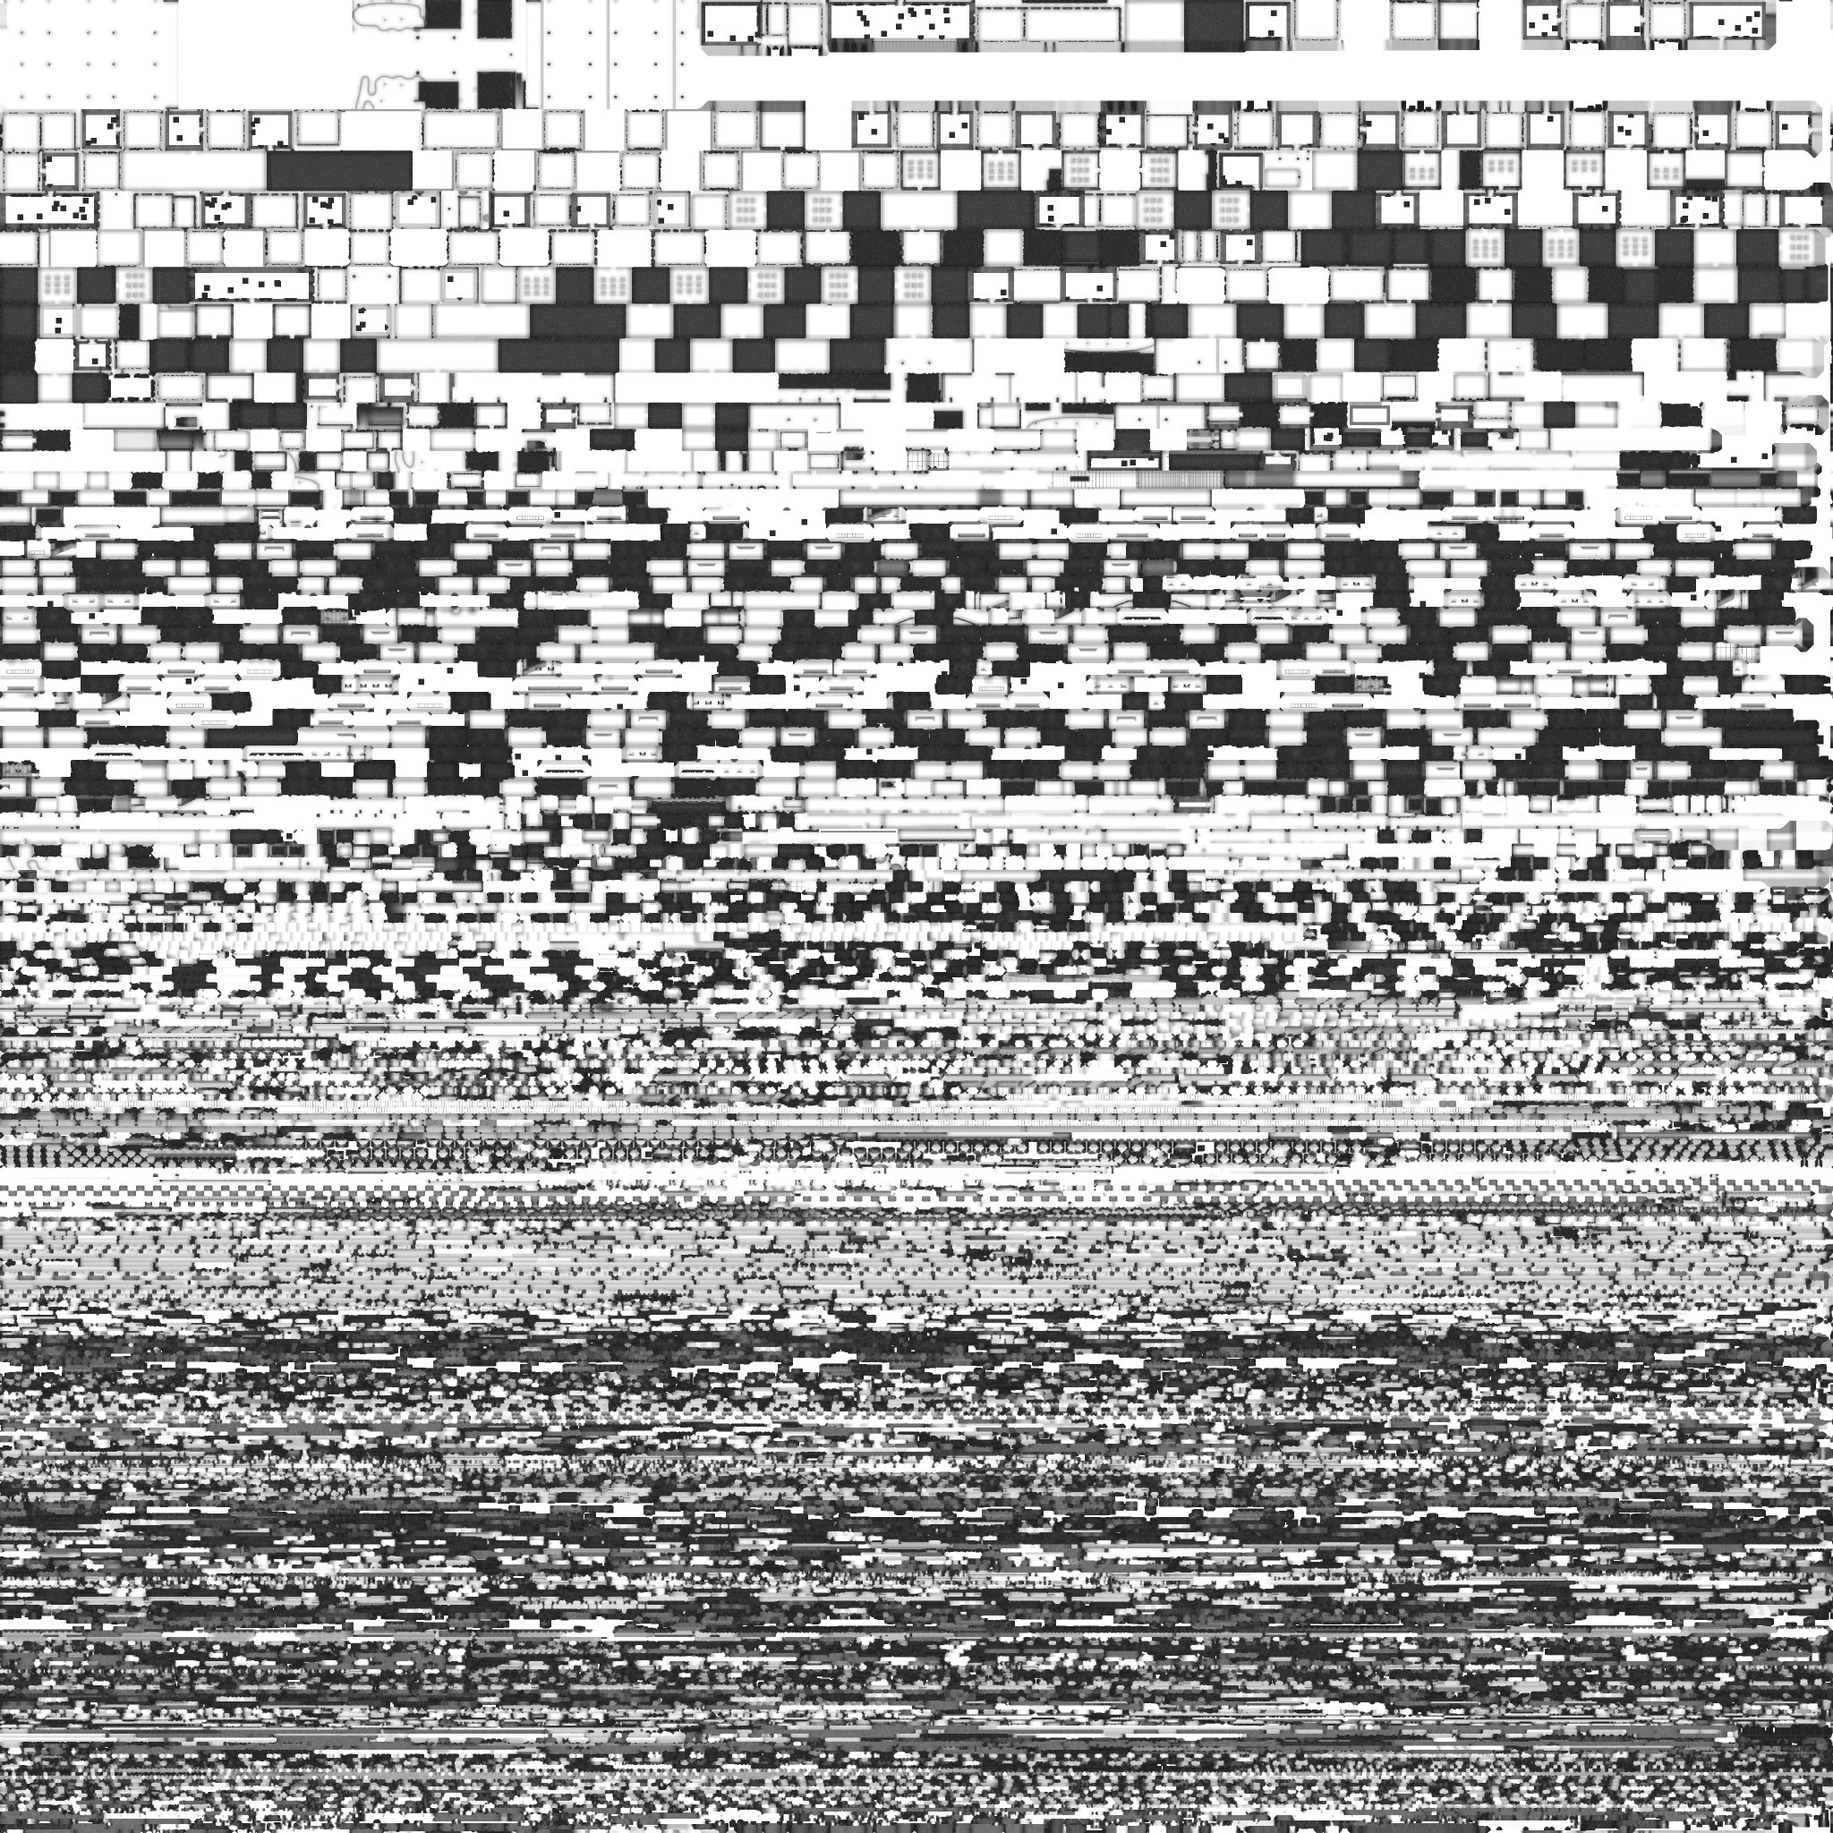
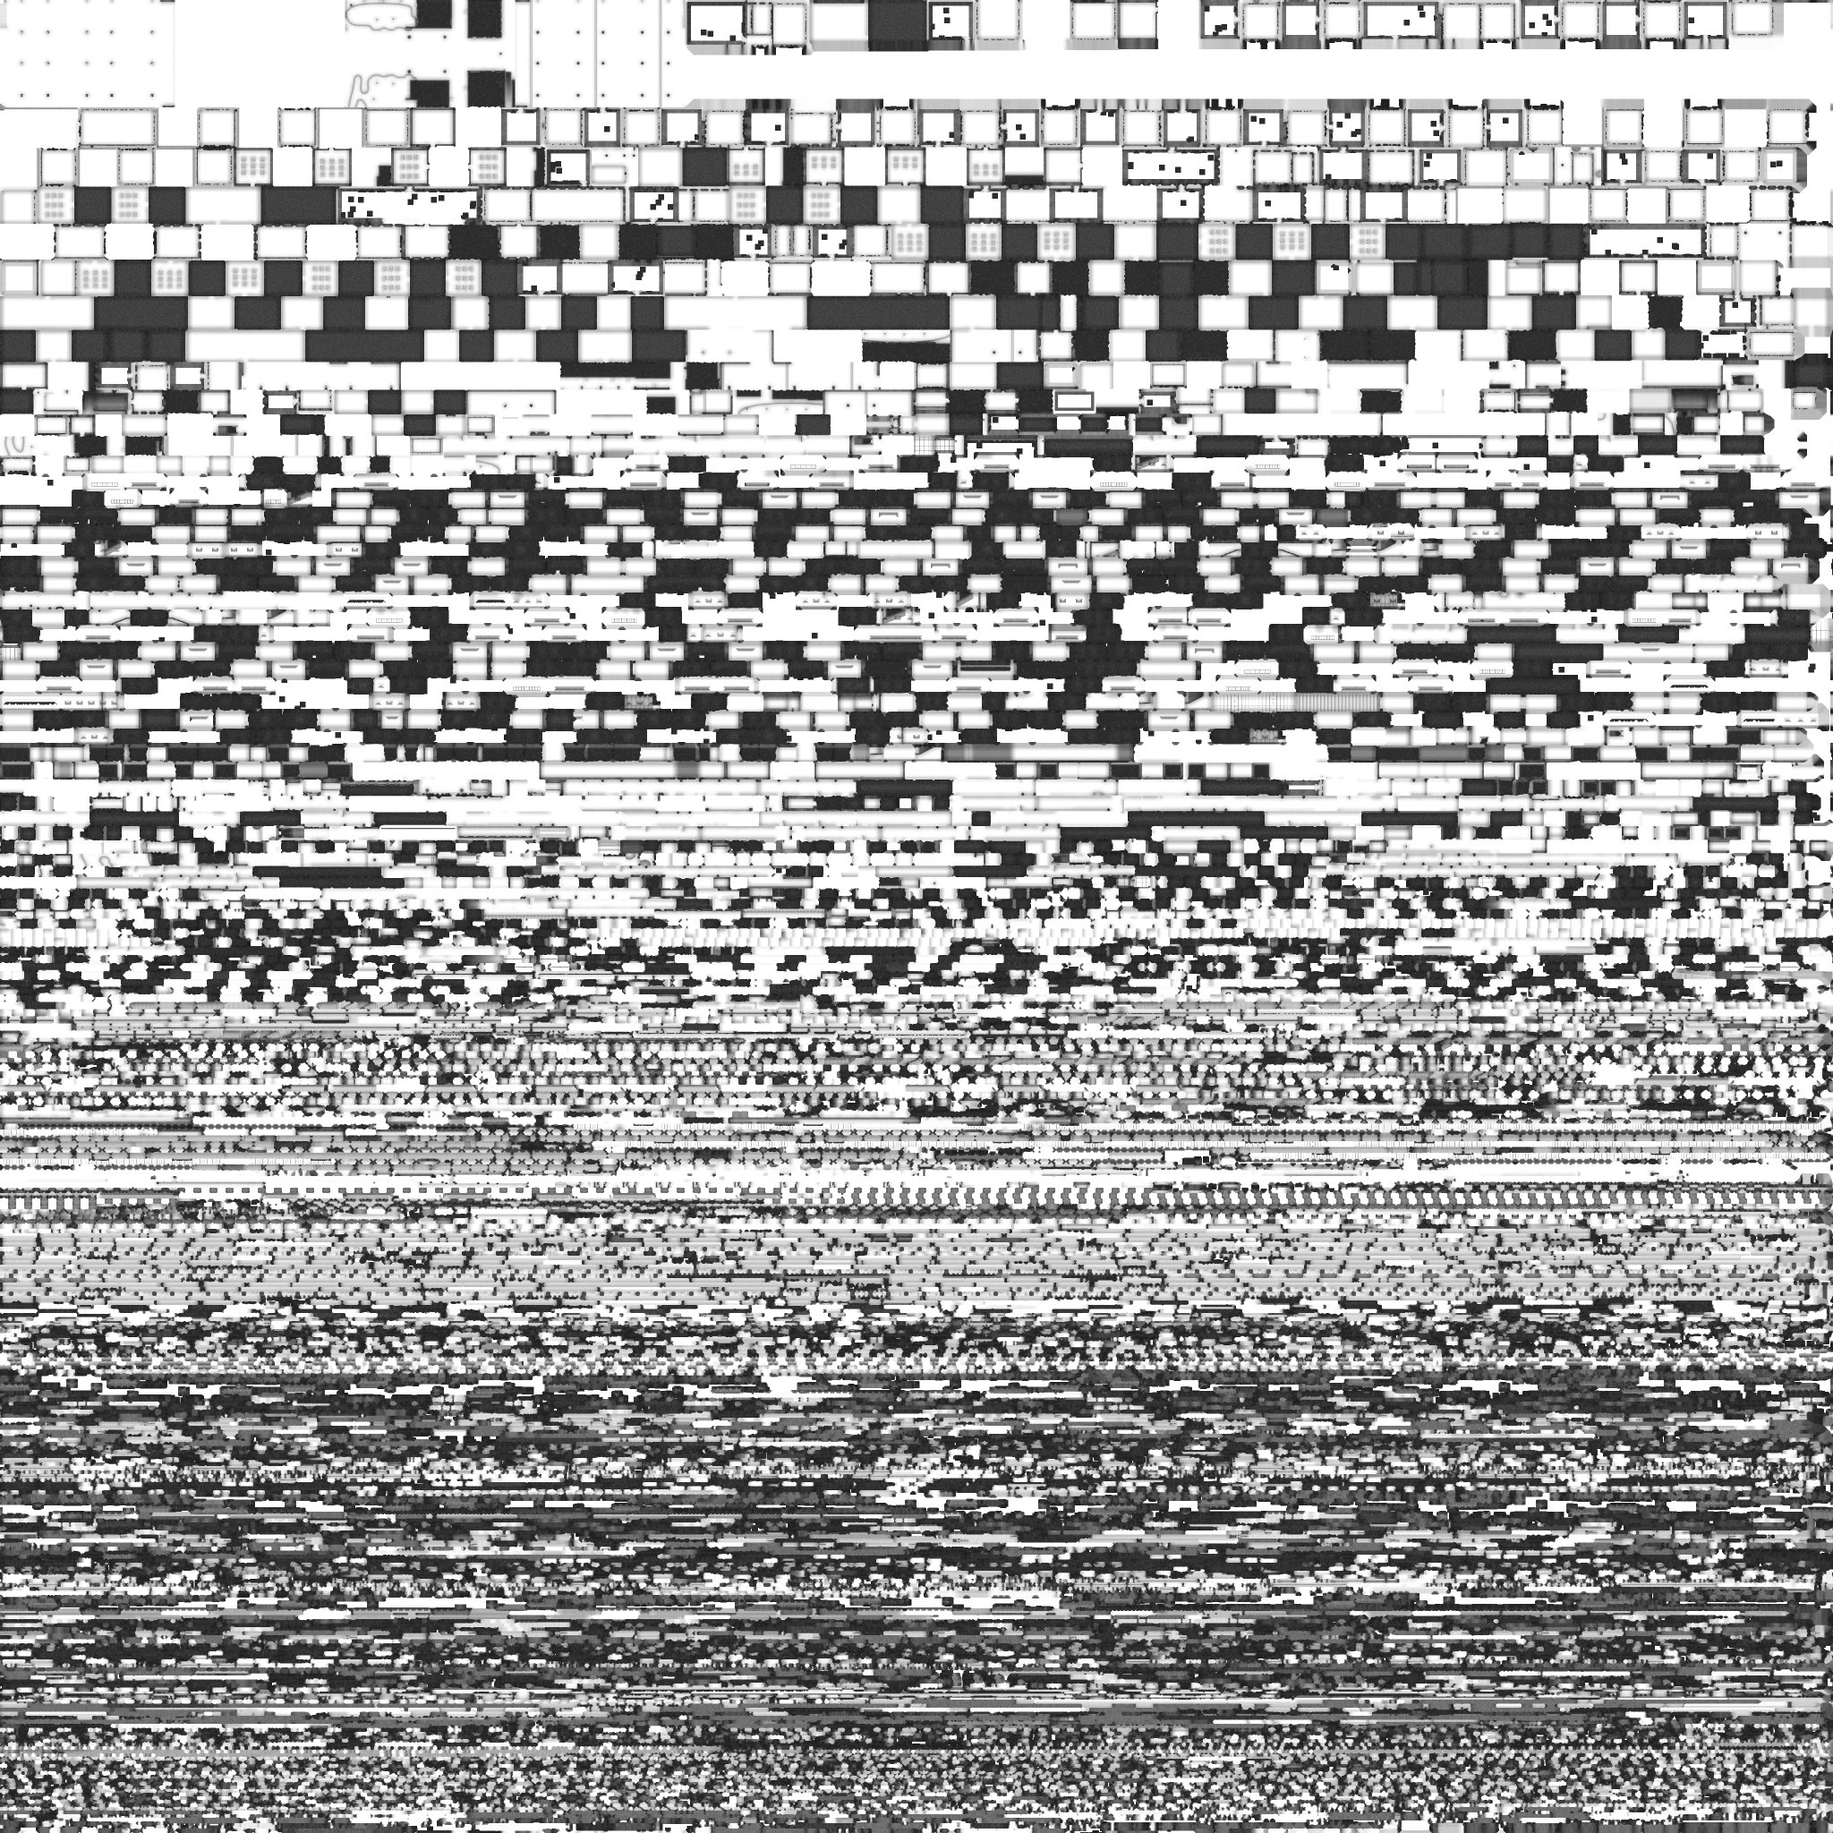
perf(round3): F 收尾（門牌圖集、純色材質頂點色合併、noShadow → draw calls 低於第二輪；AO 重烘 d1a97412；README 證據分級）

diff --git a/campus-atlas/slice/src/dongxin/scene.js b/campus-atlas/slice/src/dongxin/scene.js
@@ -18,9 +18,10 @@ export function buildDongxinScene(m, MS, opts = {}) {
     const t = new T.CanvasTexture(c); t.anisotropy = 4; if (repeat) t.wrapS = t.wrapT = T.RepeatWrapping; return t; };
   const roundRect = (g, x, y, w, h, r) => { g.beginPath(); g.moveTo(x + r, y); g.arcTo(x + w, y, x + w, y + h, r); g.arcTo(x + w, y + h, x, y + h, r); g.arcTo(x, y + h, x, y, r); g.arcTo(x, y, x + w, y, r); g.closePath(); };
   const fit = (g, txt, maxW, size, weight) => { let s = size; g.font = weight + ' ' + s + 'px ' + FONT; while (g.measureText(txt).width > maxW && s > 12) { s -= 2; g.font = weight + ' ' + s + 'px ' + FONT; } return s; };
-  const signTex = (name, color) => canvasTex(256, 96, (g, w, h) => {
+  // 門牌：畫在 (ox, oy) 起的 w×h 格（第三輪 F：所有門牌畫進同一張圖集，見 flushSigns）
+  const drawSign = (g, ox, oy, w, h, name, color) => { g.save(); g.translate(ox, oy);
     g.fillStyle = color; roundRect(g, 2, 2, w - 4, h - 4, 16); g.fill(); g.strokeStyle = 'rgba(255,255,255,.6)'; g.lineWidth = 3; roundRect(g, 8, 8, w - 16, h - 16, 11); g.stroke();
-    g.fillStyle = '#fff'; g.textAlign = 'center'; g.textBaseline = 'middle'; fit(g, name, w - 36, 52, '700'); g.fillText(name, w / 2, h / 2 + 2); });
+    g.fillStyle = '#fff'; g.textAlign = 'center'; g.textBaseline = 'middle'; fit(g, name, w - 36, 52, '700'); g.fillText(name, w / 2, h / 2 + 2); g.restore(); };
 
   // 場景角色 → 材質：全部來自材質 JSON 的 roles（換校＝換 JSON）。facade.* / roof.* 為各棟立面與屋頂。
   const M = Object.assign({}, MS.roles), R = (k) => MS.role(k);
@@ -196,15 +197,27 @@ function corridorFace(ib,sd,r,door,y0,wh){
     if(ax==='x') ib.add(M.wood,0.05,DOOR_H-0.06,lw,g0+0.06,Y((DOOR_H-0.06)/2),fix+nz*(lw/2+0.1));
     else ib.add(M.wood,lw,DOOR_H-0.06,0.05,fix+nx*(lw/2+0.1),Y((DOOR_H-0.06)/2),g0+0.06); }
 }
+// 門牌（第三輪 F：draw call 收斂）：原本每塊門牌 2 個網格＋各自一張貼圖（約 190 個 draw call）；改為先收集，
+// flushSigns 把所有門牌畫進同一張圖集（每格 256×96，格間留 8 px 防 mipmap 滲色），每個樓層群組合併成 1 個網格（鳥瞰剖層照樣跟著樓層顯示／隱藏）
+const SIGNS=new Map();   // 群組 → [{text,col,pos:[[x,y,z,ry],...]}]
 function doorSign(g,r,door,y0,text,col){
-  const tex=signTex(text,col); tex.shared=false;
-  const mat=new T.MeshBasicMaterial({map:tex,side:T.FrontSide});
   const rot={N:Math.PI,S:0,E:Math.PI/2,W:-Math.PI/2}[door.side];
-  const nx=door.nx,nz=door.nz, off=SLAB/2+0.03;
-  [1,-1].forEach(dir=>{
-    const m=new T.Mesh(new T.PlaneGeometry(1.7,0.64),mat); m.position.set(door.x+nx*off*dir,y0+DOOR_H+0.62,door.z+nz*off*dir);
-    m.rotation.y=rot+(dir<0?Math.PI:0); g.add(m);
-  });
+  const nx=door.nx,nz=door.nz, off=SLAB/2+0.03, pos=[1,-1].map(dir=>[door.x+nx*off*dir,y0+DOOR_H+0.62,door.z+nz*off*dir,rot+(dir<0?Math.PI:0)]);
+  if(!SIGNS.has(g)) SIGNS.set(g,[]); SIGNS.get(g).push({text,col,pos});
+}
+function flushSigns(){
+  const all=[...SIGNS.values()].flat(); if(!all.length) return;
+  const CW=256, CH=96, GUT=8, cols=Math.floor(2048/(CW+GUT)), rows=Math.ceil(all.length/cols), W=cols*(CW+GUT), H=rows*(CH+GUT);
+  let k=0; const cell=new Map();
+  const tex=canvasTex(W,H,(g)=>{ g.clearRect(0,0,W,H); for(const s of all){ const cx=(k%cols)*(CW+GUT)+GUT/2, cy=Math.floor(k/cols)*(CH+GUT)+GUT/2; drawSign(g,cx,cy,CW,CH,s.text,s.col); cell.set(s,[cx,cy]); k++; } });
+  tex.shared=false; const mat=new T.MeshBasicMaterial({map:tex,side:T.FrontSide}); mat.name='doorSigns';
+  const mm=new T.Matrix4(), q=new T.Quaternion(), ax=new T.Vector3(0,1,0), one=new T.Vector3(1,1,1), p=new T.Vector3();
+  SIGNS.forEach((list,g)=>{ const parts=[];
+    for(const s of list){ const [cx,cy]=cell.get(s), u0=cx/W, u1=(cx+CW)/W, v1=1-cy/H, v0=1-(cy+CH)/H;
+      for(const [x,y,z,ry] of s.pos){ const pg=new T.PlaneGeometry(1.7,0.64), uv=pg.attributes.uv;
+        for(let i=0;i<uv.count;i++) uv.setXY(i,u0+uv.getX(i)*(u1-u0),v0+uv.getY(i)*(v1-v0));
+        q.setFromAxisAngle(ax,ry); p.set(x,y,z); pg.applyMatrix4(mm.compose(p,q,one)); parts.push(pg); } }
+    const mesh=new T.Mesh(BGU.mergeGeometries(parts),mat); mesh.name='doorSigns_'+g.name; g.add(mesh); });
 }
 const TWR = m.TOWER ? m.TOWER.s : null;   // 時鐘梯塔（最靠近校門的梯間）
 // 3F→4F 轉折平台後方：米白粉刷牆＋木紋門（機房／儲藏）＋灰色消防栓箱（照片 tower_landing_3to4.jpg）
@@ -739,6 +752,6 @@ function buildSigns(){
 }
   m.ROOMS.forEach(r=>{ if(['潛能教室','電腦教室','音樂教室'].includes(r.name)) r.ribbon=true; });
   const FIB = FG.map(g => IB(g));   // 各樓層共用的方塊批次（buildFloors、buildChuantang 都加進來，最後一次合併）
-  buildGround(); buildFloors(); buildChuantang(); buildStage(); buildFinBox(); buildSlide(); buildTower(); buildGuard(); buildPlanters(); buildGarage(); FIB.forEach(b => b.flush()); buildFence(); buildDecor(); buildTrees(); buildTreeSupports(); buildRamp(); buildSigns(); flushProps();
+  buildGround(); buildFloors(); buildChuantang(); buildStage(); buildFinBox(); buildSlide(); buildTower(); buildGuard(); buildPlanters(); buildGarage(); FIB.forEach(b => b.flush()); buildFence(); buildDecor(); buildTrees(); buildTreeSupports(); buildRamp(); buildSigns(); flushProps(); flushSigns();
   return { root, FG, CAN, UNDER, PILLARS, WINDOWS, FINBOX, PLANTERS: PLANTERS.planters.length, get groundMesh() { return groundMesh; }, get groundBox() { return groundBox; }, GATE, ACC, GB };
 }

diff --git a/campus-atlas/slice/src/scene/batch.js b/campus-atlas/slice/src/scene/batch.js
@@ -1,6 +1,12 @@
 import * as THREE from 'three';
 // 軸對齊方塊批次合併：同材質的所有方塊合成一個 Mesh，降低 draw call。
 // UV 以世界公尺換算（u,v = 座標 / tile），所以磚縫、板縫跨方塊也連續。
+const BASE_OBC = THREE.Material.prototype.onBeforeCompile;
+const isSolid = (m) => m.isMeshLambertMaterial && !m.map && !m.transparent && !m.alphaTest && !m.vertexColors && !m.polygonOffset && m.side === THREE.FrontSide
+  && m.opacity === 1 && m.onBeforeCompile === BASE_OBC && !m.userData.keepSeparate;
+const SOLID = {};
+function solidMat(noShadow) { const k = noShadow ? 'ns' : 'c'; if (!SOLID[k]) { SOLID[k] = new THREE.MeshLambertMaterial({ vertexColors: true }); SOLID[k].name = noShadow ? 'solidVC_noShadow' : 'solidVC';
+  if (noShadow) SOLID[k].userData.noShadow = true; } return SOLID[k]; }
 export class Batch {
   constructor() { this.m = new Map(); }
   _g(mat) { let g = this.m.get(mat); if (!g) { g = { p: [], n: [], u: [], i: [] }; this.m.set(mat, g); } return g; }
@@ -27,11 +33,20 @@ export class Batch {
     put([a, b, c, d], n); if (twoSided) put([a, d, c, b], n.map(v => -v));
   }
   flush(parent, name) {
+    // 第三輪 F（draw call 收斂）：同一批次裡「純色、不透明、沒有自訂 shader」的 Lambert 材質（窗框灰、綠欄杆、屋頂、飾帶、課桌椅…）
+    // 合併成一個頂點色網格（共用 SOLID 材質，顏色寫進頂點）；投影與不投影（userData.noShadow）各一個。外觀不變，每個群組省下 N−1 個 draw call。
+    const solid = [new Map(), new Map()];
+    for (const [mat, g] of [...this.m]) if (isSolid(mat)) { solid[mat.userData.noShadow ? 1 : 0].set(mat, g); this.m.delete(mat); }
+    solid.forEach((bucket, ns) => { if (!bucket.size) return; const G = { p: [], n: [], u: [], i: [], c: [] };
+      for (const [mat, g] of bucket) { const base = G.p.length / 3, nv = g.p.length / 3, c = mat.color;
+        G.p.push(...g.p); G.n.push(...g.n); G.u.push(...g.u); for (const k of g.i) G.i.push(k + base); for (let v = 0; v < nv; v++) G.c.push(c.r, c.g, c.b); }
+      this.m.set(solidMat(ns === 1), G); });
     for (const [mat, g] of this.m) {
       const geo = new THREE.BufferGeometry();
       geo.setAttribute('position', new THREE.Float32BufferAttribute(g.p, 3));
       geo.setAttribute('normal', new THREE.Float32BufferAttribute(g.n, 3));
       geo.setAttribute('uv', new THREE.Float32BufferAttribute(g.u, 2));
+      if (g.c) geo.setAttribute('color', new THREE.Float32BufferAttribute(g.c, 3));
       geo.setIndex(g.i);
       const mesh = new THREE.Mesh(geo, mat); mesh.name = name || ''; mesh.frustumCulled = false; mesh.userData.batch = true;   // 每個面 4 個獨立頂點的軸對齊矩形（lightmap.js 依此配 uv1）
       if (mat.transparent) mesh.renderOrder = 2;

diff --git a/campus-atlas/slice/src/materials/library.js b/campus-atlas/slice/src/materials/library.js
@@ -1,7 +1,7 @@
 // 材質庫：由材質 JSON（data/materials.*.json）建出 three 材質。換校＝換一份 JSON（換膜），程式不用改。
 //   textures  依序產生（共用亂數序列 → 同一份 JSON 永遠產生相同紋理；個別紋理可給 seed 用自己的序列）
 //             加上 "image" 區塊即為圖片型紋理：先用程式化版本（gen/p）當備援立即顯示，圖片載入後換上；載入失敗就一直用備援，不會白屏。
-//   materials 物理材質（紅磚、清水混凝土、鋁框、玻璃、地磚…）：map 指向紋理，或 color；unlit 用 MeshBasic
+//   materials 物理材質（紅磚、清水混凝土、鋁框、玻璃、地磚…）：map 指向紋理，或 color；unlit 用 MeshBasic；noShadow：只受影、不投影
 //   roles     場景角色 → 材質 id（外牆、樓板、欄杆、各棟立面、各棟屋頂…），場景程式只認角色
 //   accents   房間類型色帶
 //
@@ -89,7 +89,7 @@ export function buildMaterials(spec, { resolve = (s) => s } = {}) {
   for (const [id, d] of Object.entries(spec.materials)) {
     const o = {}; if (d.map) o.map = TEX[d.map]; if (d.color) o.color = new THREE.Color(d.color);
     if (d.transparent) { o.transparent = true; o.opacity = d.opacity ?? 1; } if (d.depthWrite === false) o.depthWrite = false;
-    M[id] = d.unlit ? new THREE.MeshBasicMaterial(o) : new THREE.MeshLambertMaterial(o); M[id].name = id; M[id].userData.label = d.label || id;
+    M[id] = d.unlit ? new THREE.MeshBasicMaterial(o) : new THREE.MeshLambertMaterial(o); M[id].name = id; M[id].userData.label = d.label || id; if (d.noShadow) M[id].userData.noShadow = true;
   }
   const roles = {}; for (const [r, id] of Object.entries(spec.roles || {})) roles[r] = M[id];
   const acc = {}; for (const [k, c] of Object.entries(spec.accents || {})) acc[k] = new THREE.MeshLambertMaterial({ color: new THREE.Color(c) });

diff --git a/campus-atlas/slice/src/dongxin/app/lighting.js b/campus-atlas/slice/src/dongxin/app/lighting.js
@@ -29,10 +29,11 @@ export function createLighting(renderer, scene, override, { shadows = true } = {
   const catcher = new THREE.Mesh(new THREE.PlaneGeometry(400, 400), new THREE.ShadowMaterial({ opacity: S.groundOpacity, depthWrite: false }));
   catcher.rotation.x = -Math.PI / 2; catcher.position.y = 0.02; catcher.receiveShadow = true; catcher.renderOrder = 1; catcher.visible = on; scene.add(catcher);
 
-  // 哪些網格投影／受影：不透明、受光的材質才參與；看板（MeshBasic）、玻璃（透明）、標記不投影
+  // 哪些網格投影／受影：不透明、受光的材質才參與；看板（MeshBasic）、玻璃（透明）、標記不投影；
+  // 材質 JSON 標 noShadow 的（地板、課桌椅、黑板、飾帶、櫃子…：陰影幾乎看不到）只受影、不投影，省下陰影貼圖那一趟 draw call（第三輪 F）
   function setupCasters(root) {
     let n = 0; root.traverse(o => { if (!o.isMesh) return; const m = o.material, lit = m && !m.isMeshBasicMaterial && !m.isShadowMaterial, opaque = m && !m.transparent;
-      o.castShadow = lit && opaque; o.receiveShadow = lit; if (o.castShadow) n++; }); return n; }
+      o.castShadow = lit && opaque && !(m.userData && m.userData.noShadow); o.receiveShadow = lit; if (o.castShadow) n++; }); return n; }
   let ext = 0;
   function update(S_, birdMode) {        // 每幀：陰影相機跟著角色（鳥瞰時放大範圍）；以 texel 為單位對齊，移動時陰影不閃爍
     if (!on) return; const e = birdMode ? S.birdExtent : S.extent;

diff --git a/campus-atlas/slice/assets/texture-candidates/README.md b/campus-atlas/slice/assets/texture-candidates/README.md
@@ -7,10 +7,10 @@
 ## 狀態
 | 候選 | 狀態 |
 |---|---|
-| `brick_red_8919` | **已接入**（紅磚面磚）→ `assets/textures/brick_red.jpg` |
-| `concrete_fair_1000` | **已接入**（仿清水混凝土，疊模板縫與繫結孔）→ `assets/textures/concrete_fair.jpg` |
+| `brick_red_8919` | 曾接入（紅磚面磚）；**第三輪 A 由實景照片取樣的 `brick_jixian.jpg` 取代，檔案已移除** |
+| `concrete_fair_1000` | 曾接入（仿清水混凝土）；**第三輪 A 由實景照片取樣的 `concrete_formwork.jpg` 取代，檔案已移除** |
 | `floor_terrazzo_1000` | **已接入**（室內地磚／磨石子，疊 1 m 分割條）→ `assets/textures/floor_terrazzo.jpg` |
-| `paving_outdoor_8919` | **已接入**（戶外鋪面，以細節層疊在地面底圖的鋪面色上）→ `assets/textures/paving_outdoor.jpg` |
+| `paving_outdoor_8919` | 曾接入（戶外鋪面）；**第三輪 A 由實景照片取樣的 `pave_interlock.jpg` 取代，檔案已移除** |
 | `wood_door_8919`（第二輪） | **已接入**（木門）→ `assets/textures/wood_door.jpg` |
 | `tile_beige_*`、`tile_beige_v2_*`（第二輪重生成） | 不採用：格線歪斜、斜向排列、黑色粗縫或混入白磚；米黃面磚維持程式化 |
 | `metal_louver_*`（第二輪） | 不採用：三張都生成成斜向魚鱗狀，不是水平百葉；金屬百葉維持程式化 |
